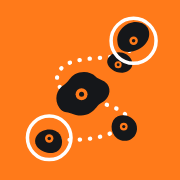
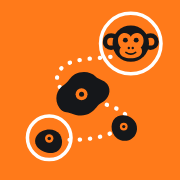
Icona: la scimmia come presa di arrivo
Claude-Session: https://claude.ai/code/session_01Ej7GkL5VL4mQecG7gLAL7P

Changed region(s): [[0.5278, 0.0556, 0.9167, 0.4444]]

diff --git a/sw.js b/sw.js
@@ -2,7 +2,7 @@
    - pagina, codice e dati pubblicati: prima la rete (così gli aggiornamenti arrivano subito), se manca la rete l'ultima copia salvata
    - foto dei muri: subito dalla copia salvata, aggiornata in sottofondo
    - modello di riconoscimento e librerie: scaricati una volta sola */
-const CACHE = 'circuiti-v21';
+const CACHE = 'circuiti-v22';
 const CORE = ['./', './index.html', './app.js', './config.js', './manifest.webmanifest', './icon-192.png', './icon-512.png', './icon-maskable-512.png', './apple-touch-icon.png'];
 
 self.addEventListener('install', e => {
